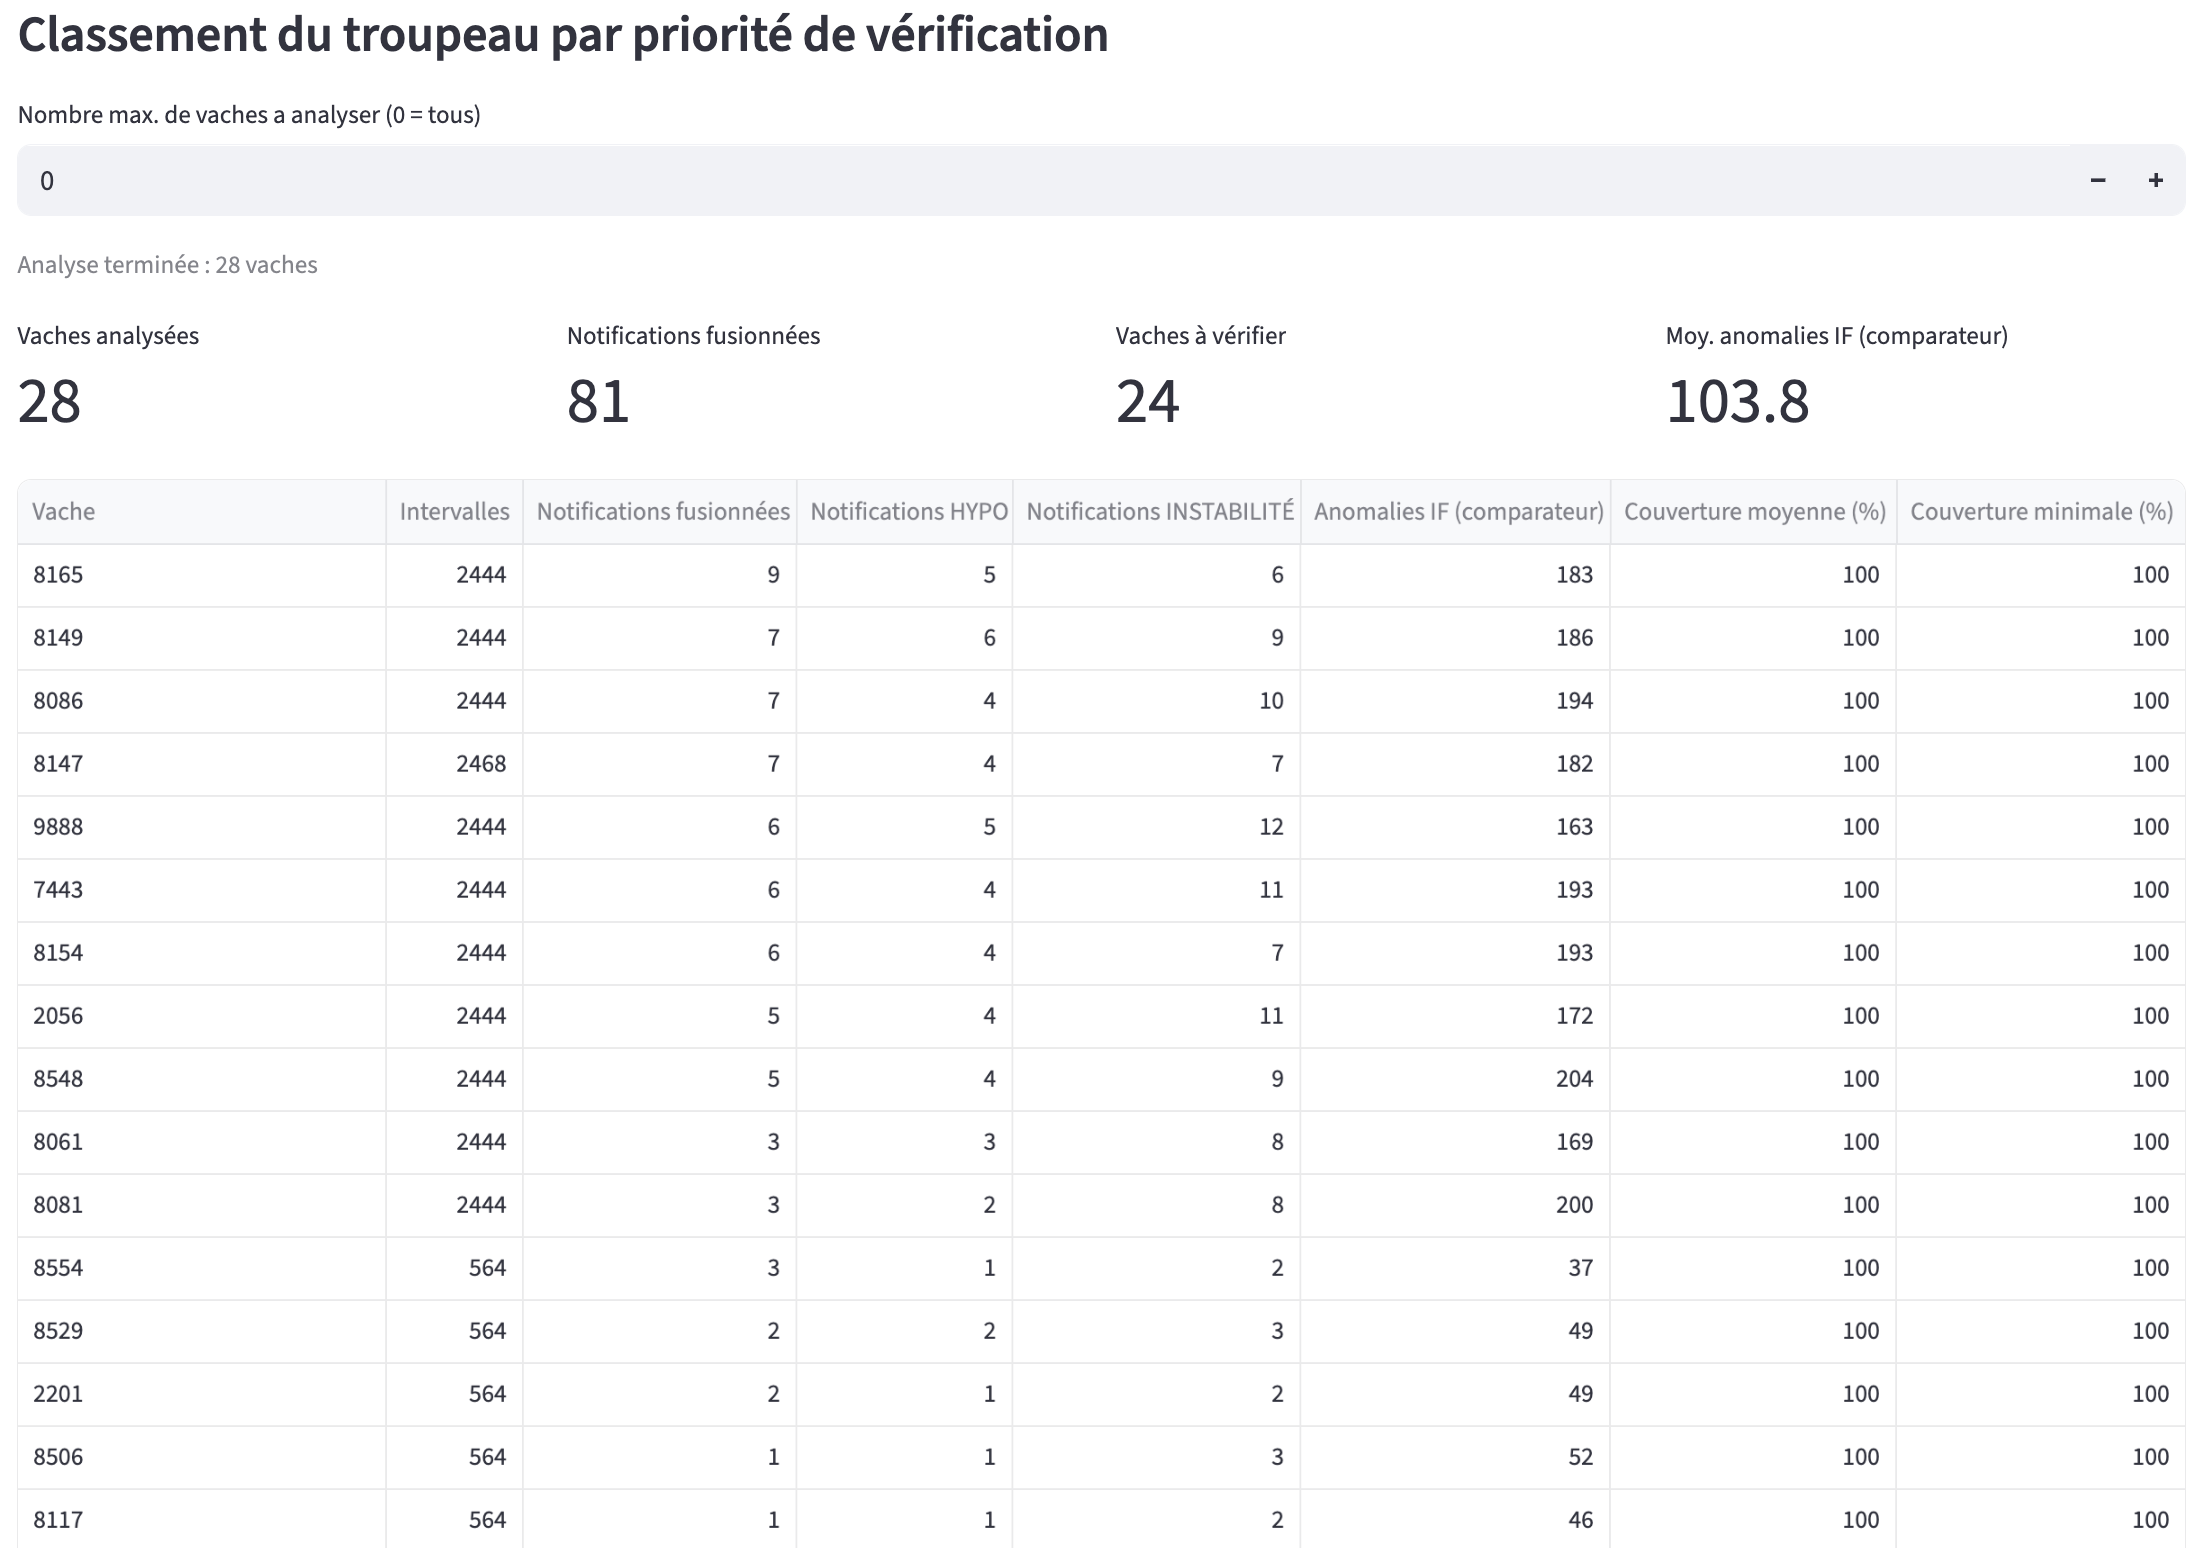
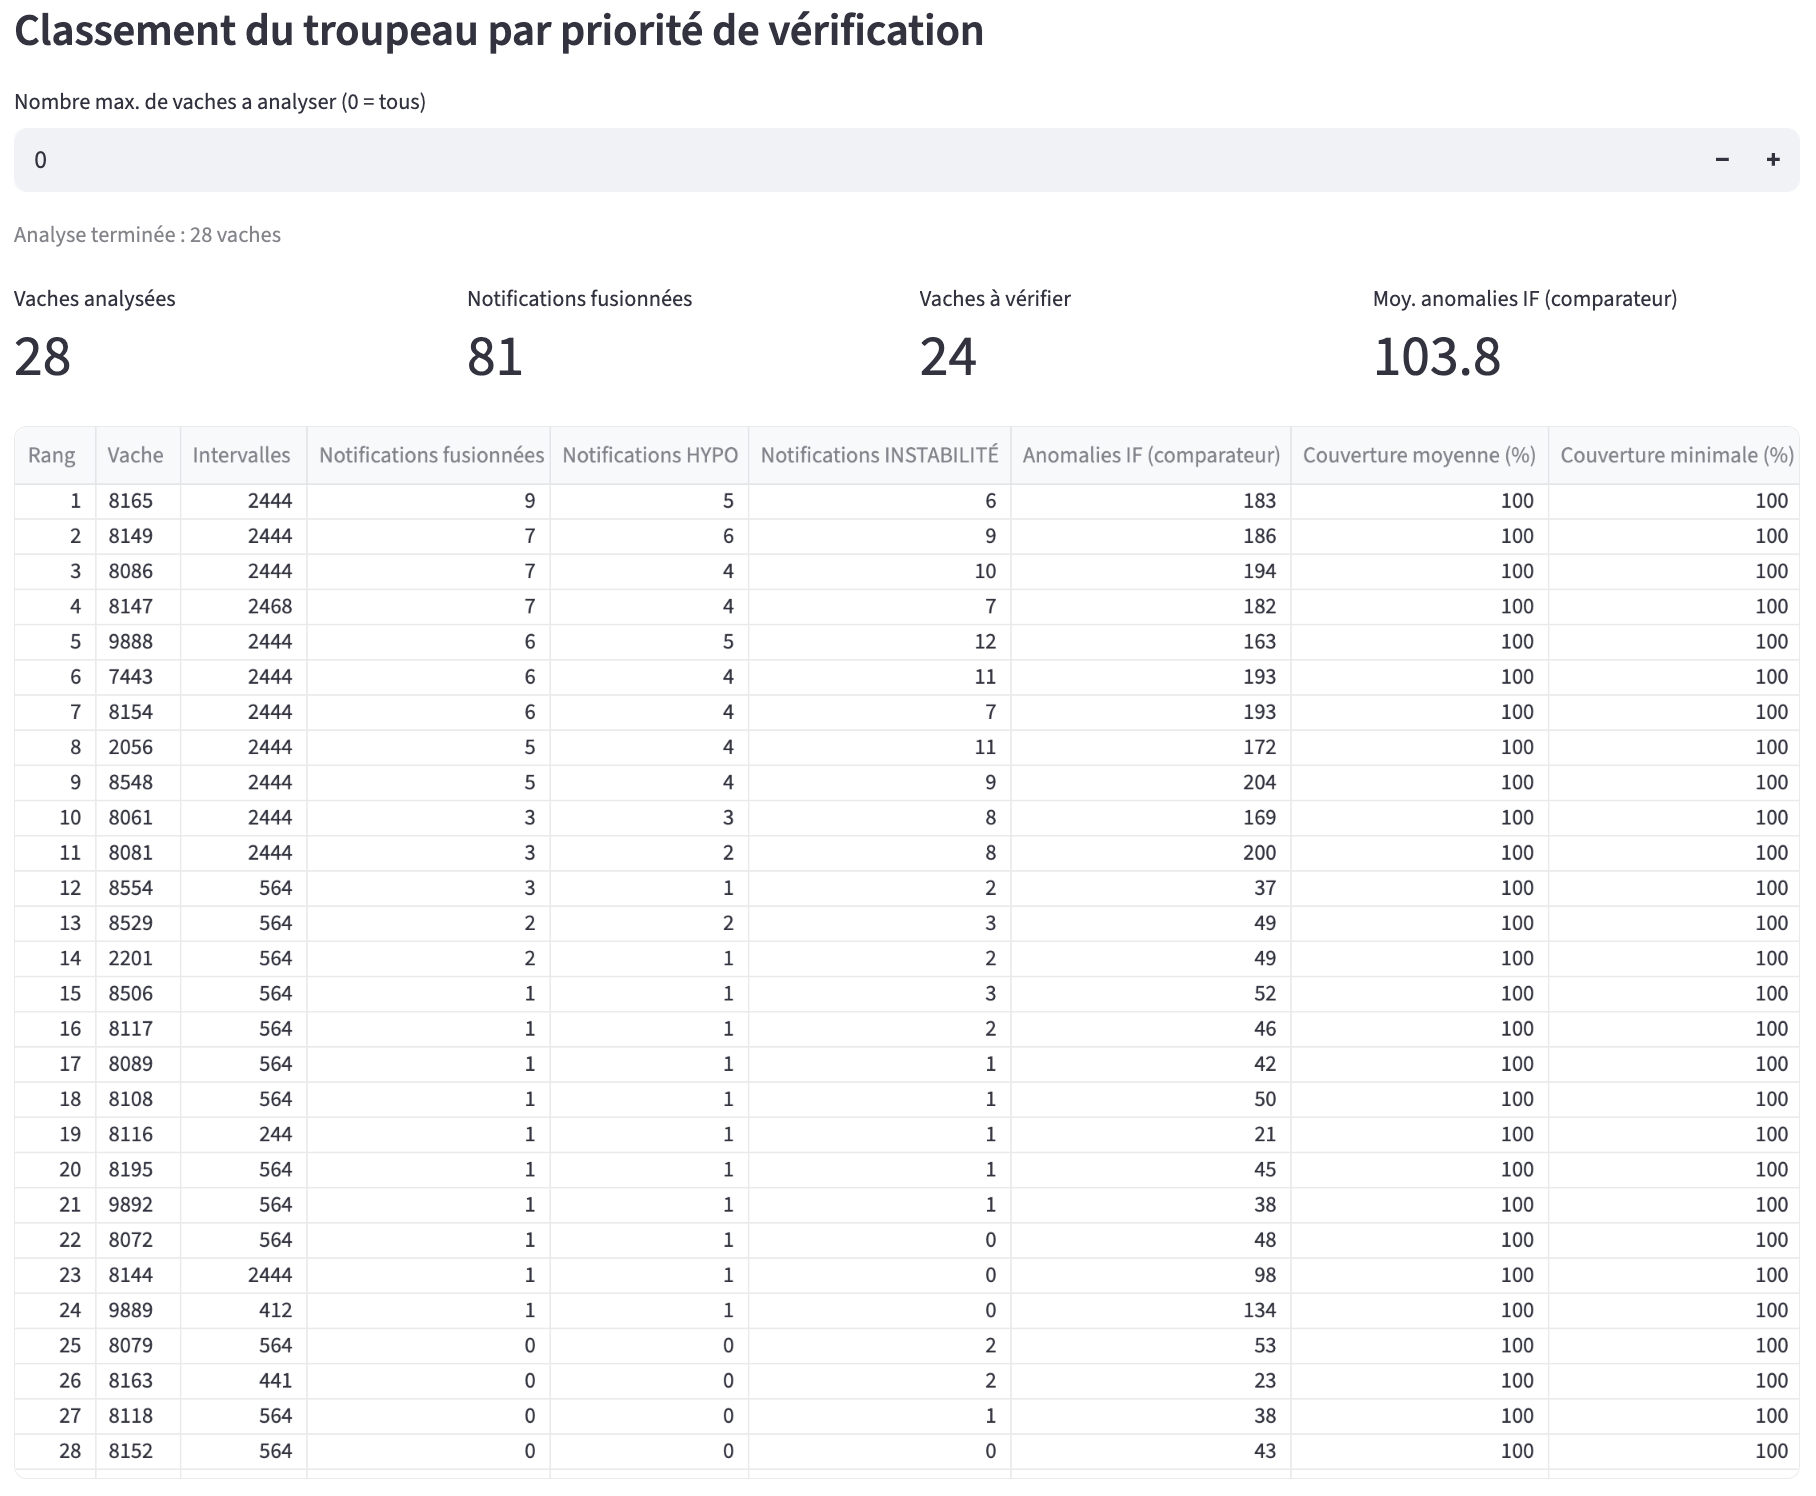
memoirev3: figure 5.2 complete, les vingt-huit vaches et la colonne « Rang »
La capture montre desormais la colonne « Rang » et les vingt-huit rangs
jusqu'a la vache 8152, ce que le paragraphe de la section 5.2 decrit. Les
trois tentatives precedentes s'arretaient au treizieme, seizieme puis
vingt-septieme rang.

Largeur d'affichage ramenee de 0,98 à 0,92 de la largeur du texte : la
capture faisant 1816 px, 0,98 ne donnait que 284 ppp; le retrait la porte a
302 ppp, mesures dans le PDF.

Suppression de streamlit_individual_8116.png, orphelin depuis le retrait de
la figure en doublon.

diff --git a/memoire/ch5_interface.tex b/memoire/ch5_interface.tex
@@ -81,7 +81,10 @@ individuelle, comme comparateur.
 
 \begin{figure}[H]
   \centering
-  \includegraphics[width=0.98\textwidth]{figures/streamlit_herd_table.png}
+  % 0,92 et non 0,98 : la capture des vingt-huit rangs fait 1816 px de large,
+  % largeur a laquelle 0,98 ne donnerait que 284 ppp. Ce retrait la porte a
+  % 302 ppp, au-dessus du seuil d'impression.
+  \includegraphics[width=0.92\textwidth]{figures/streamlit_herd_table.png}
   \caption{Classement du troupeau.}
   \label{fig:streamlit_herd_table}
 \end{figure}
